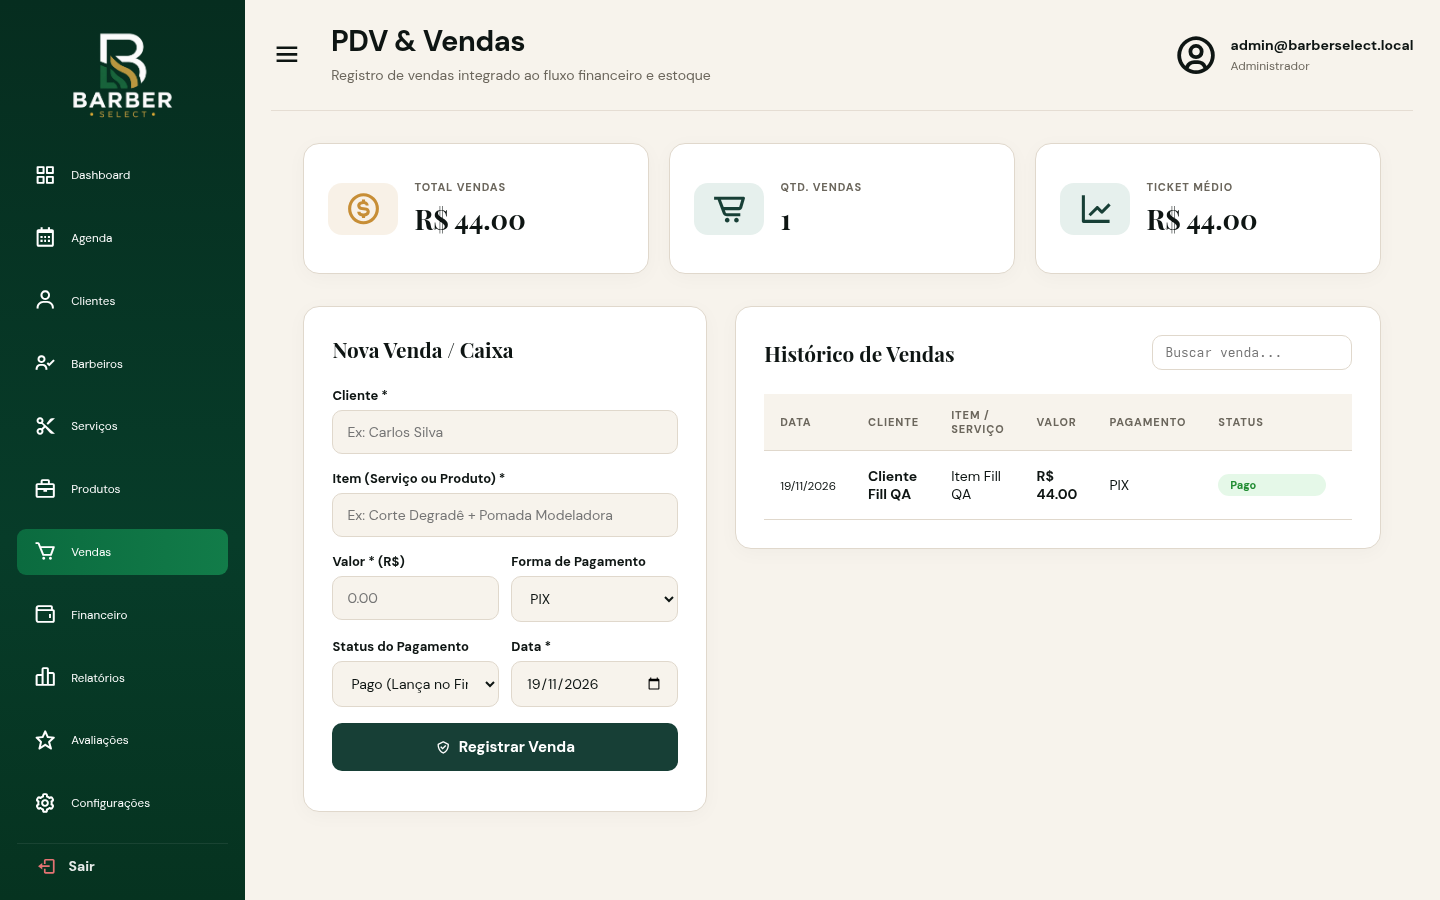
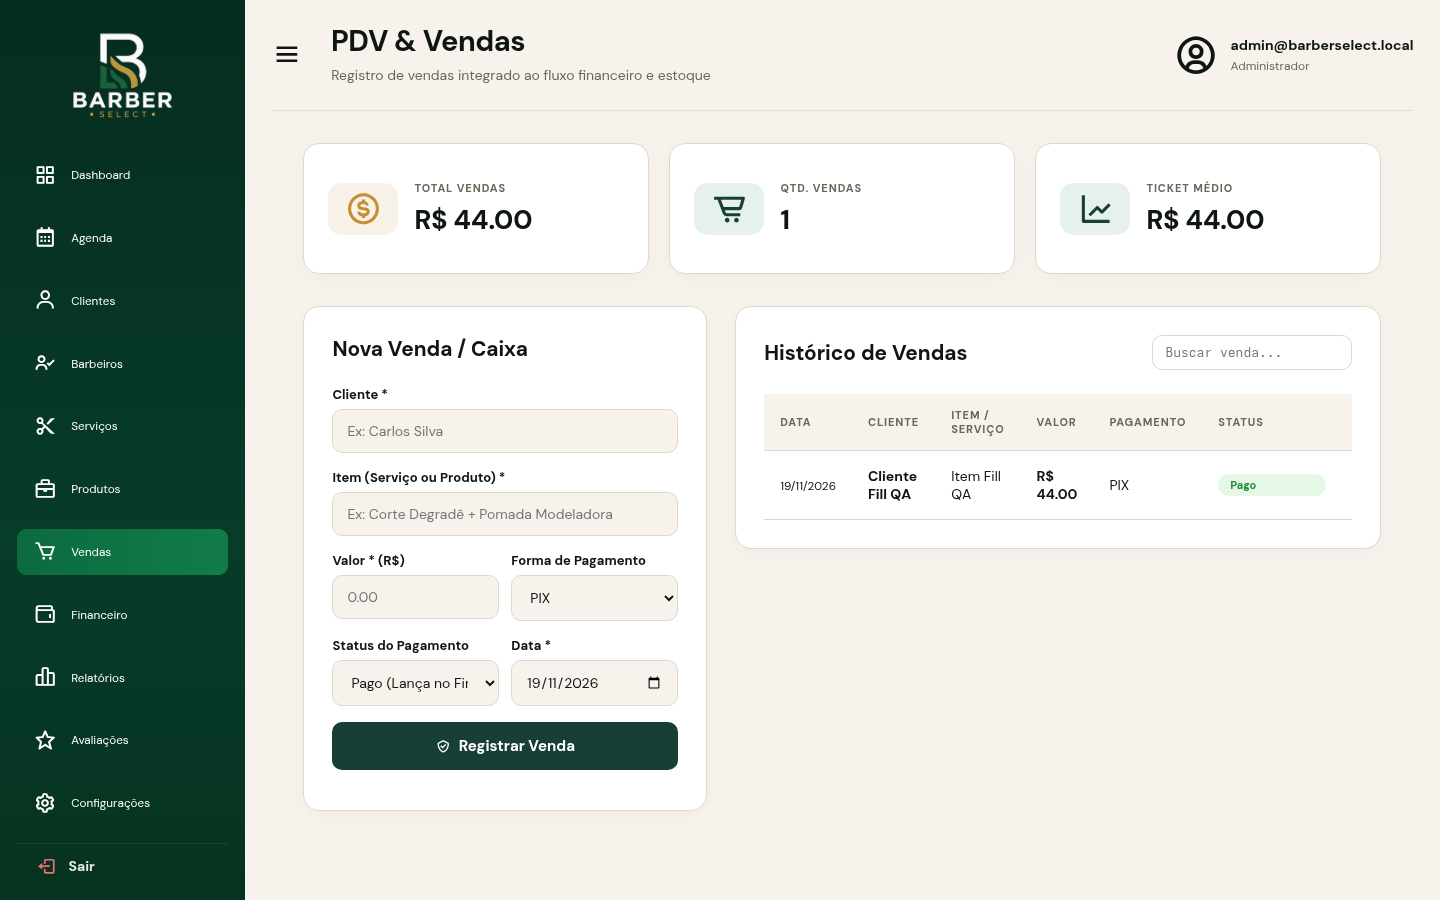
fix: padroniza telas restantes e corrige menu mobile
- auth.html usa styles-legacy.css para herdar o layout do cartao de acesso
- Remove alias --display que alterou os numeros do dashboard
- Hamburger das paginas legadas nao propaga o clique para o main
- Atualiza capturas de tela e README

diff --git a/public/styles-legacy.css b/public/styles-legacy.css
@@ -399,6 +399,40 @@ a {
   }
 }
 
+.menu-button.hamb {
+  display: none;
+  align-items: center;
+  justify-content: center;
+  border: 0;
+  background: transparent;
+  color: var(--green);
+  font-size: 24px;
+  padding: 8px;
+  margin-right: 12px;
+  cursor: pointer;
+}
+
+@media (max-width: 760px) {
+  .menu-button.hamb {
+    display: inline-flex;
+  }
+
+  .sidebar {
+    position: fixed;
+    top: 0;
+    bottom: 0;
+    left: 0;
+    width: min(280px, 86vw);
+    z-index: 60;
+    transform: translateX(-100%);
+    transition: transform 0.2s ease;
+  }
+
+  .app.mobile-menu-open .sidebar {
+    transform: translateX(0);
+  }
+}
+
 @media (max-width: 720px) {
   .landing {
     grid-template-columns: 1fr;

diff --git a/public/js/staff/staff-app.js b/public/js/staff/staff-app.js
@@ -156,7 +156,9 @@
       const app = document.querySelector('.app');
 
       if (hamburgerButton) {
-        hamburgerButton.addEventListener('click', () => {
+        hamburgerButton.addEventListener('click', (event) => {
+          // Evita que o clique chegue ao .main e feche o menu logo em seguida.
+          event.stopPropagation();
           // Toggle para desktop (esconde sidebar)
           if (window.innerWidth > 760) {
             app.classList.toggle('sidebar-collapsed');

diff --git a/public/pages/auth.html b/public/pages/auth.html
@@ -4,7 +4,7 @@
     <meta charset="UTF-8" />
     <meta name="viewport" content="width=device-width, initial-scale=1.0" />
 
-    <link rel="stylesheet" href="../styles.css" />
+    <link rel="stylesheet" href="../styles-legacy.css" />
 
     <title>Barber-Select | Entrar</title>
       <link rel="preconnect" href="https://fonts.googleapis.com" />

diff --git a/public/staff/settings.html b/public/staff/settings.html
@@ -33,6 +33,7 @@
       </aside>
         <div class="main">
           <header class="topbar">
+            <button class="menu-button hamb" type="button" aria-label="Abrir menu"><i class="bx bx-menu"></i></button>
             <h1 id="topbar-title">Configurações</h1>
             <div class="muted" id="topbar-role"></div>
           </header>

diff --git a/public/staff/appointments.html b/public/staff/appointments.html
@@ -33,6 +33,7 @@
       </aside>
         <div class="main">
           <header class="topbar">
+            <button class="menu-button hamb" type="button" aria-label="Abrir menu"><i class="bx bx-menu"></i></button>
             <h1 id="topbar-title">Agenda</h1>
             <div class="muted" id="topbar-role"></div>
           </header>

diff --git a/public/styles.css b/public/styles.css
@@ -25,7 +25,6 @@
   --panel: #fffdf8;
   --gold: #c78e36;
   --font: "DM Sans", system-ui, -apple-system, sans-serif;
-  --display: "Playfair Display", Georgia, serif;
 }
 
 html {

diff --git a/README.md b/README.md
@@ -93,6 +93,7 @@ Clientes adicionais são criados em `/pages/cadastro.html`. O login unificado co
 
 ![Landing page](docs/screenshots/landing.png)
 ![Login](docs/screenshots/login.png)
+![Login por perfil](docs/screenshots/auth.png)
 ![Cadastro de cliente](docs/screenshots/cadastro.png)
 
 ### Painel da equipe
@@ -107,6 +108,8 @@ Clientes adicionais são criados em `/pages/cadastro.html`. O login unificado co
 ![Financeiro](docs/screenshots/financeiro.png)
 ![Novo cliente](docs/screenshots/novocliente.png)
 ![Novo agendamento](docs/screenshots/novagendamento.png)
+![Agenda legada padronizada](docs/screenshots/appointments.png)
+![Configurações](docs/screenshots/settings.png)
 
 ### Portal do cliente
 
